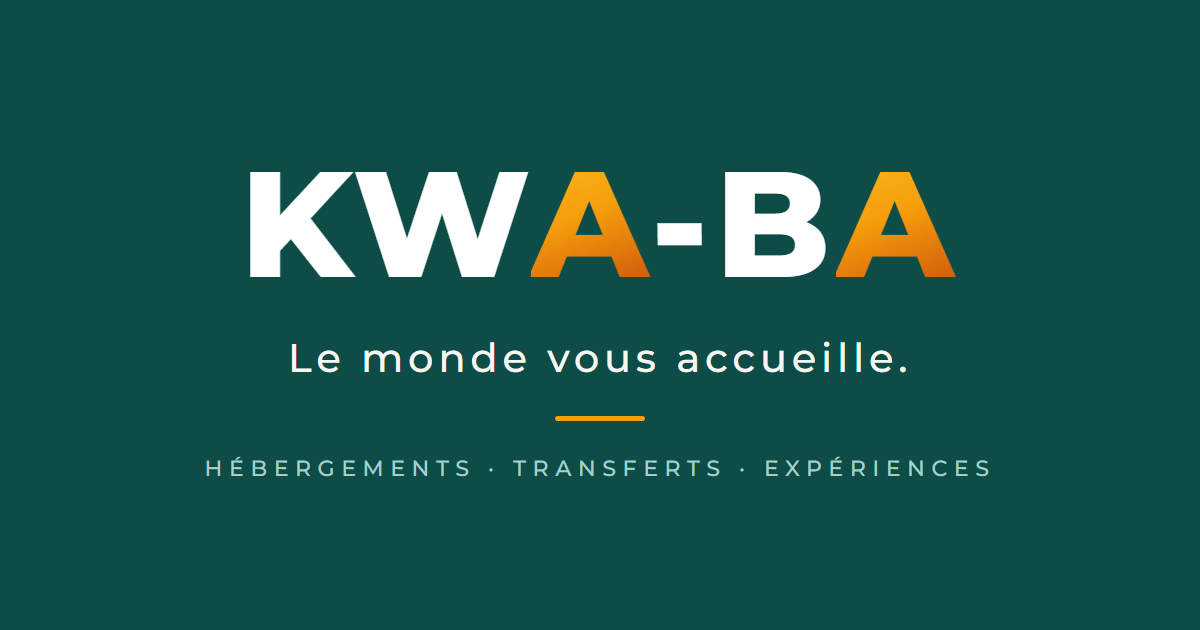
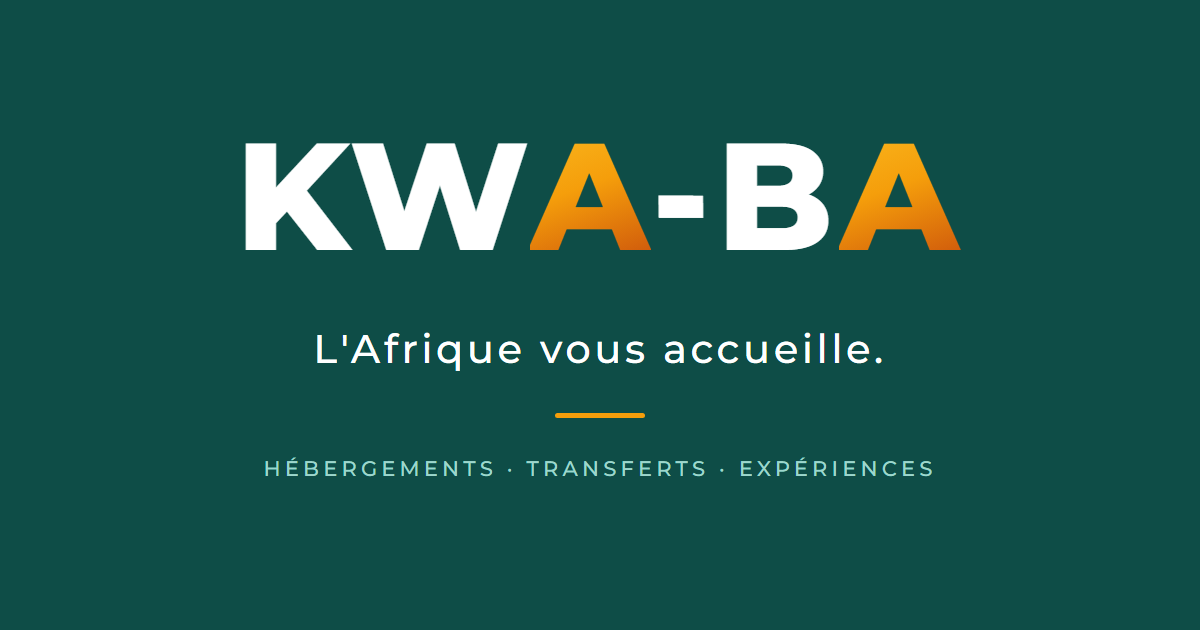
feat(marque): nouveau slogan « L'Afrique vous accueille. »
- Site : titre des pages, slogan (FR) et « Africa welcomes you. » (EN).
- Emails : en-tête « L'Afrique vous accueille ».
- Aperçu des liens partagés (Open Graph) régénéré avec le slogan.
- README et charte de marque.

diff --git a/client/tailwind.config.ts b/client/tailwind.config.ts
@@ -10,7 +10,7 @@ const config: Config = {
       colors: {
         background: "var(--background)",
         foreground: "var(--foreground)",
-        // Palette Kwa-Ba (charte « Le monde vous accueille »)
+        // Palette Kwa-Ba (charte « L'Afrique vous accueille »)
         primary: {
           // Vert profond « Confiance » : boutons, liens, en-têtes (9,8:1 avec du blanc)
           DEFAULT: '#0E4D47',

diff --git a/server/apps/notifications/infrastructure/email/html.py b/server/apps/notifications/infrastructure/email/html.py
@@ -116,7 +116,7 @@ def page_html(texte: str, sujet: str) -> str:
   <table role="presentation" width="100%" cellpadding="0" cellspacing="0" style="max-width:600px;background:#FFFFFF;border-radius:18px;overflow:hidden;border:1px solid #ECE7DD">
     <tr><td align="center" style="padding:26px 24px 18px;border-bottom:1px solid #F0ECE4">
       <img src="cid:{CID_LOGO}" width="200" height="50" alt="KWA-BA" style="display:block;border:0;outline:none;font-family:Arial,sans-serif;font-size:26px;font-weight:800;color:{VERT}">
-      <div style="margin-top:8px;font-size:12px;letter-spacing:3px;text-transform:uppercase;color:{GRIS}">Le monde vous accueille</div>
+      <div style="margin-top:8px;font-size:12px;letter-spacing:3px;text-transform:uppercase;color:{GRIS}">L’Afrique vous accueille</div>
     </td></tr>
     <tr><td style="height:4px;background:{ORANGE};background-image:linear-gradient(90deg,{VERT},{ORANGE},{ORANGE_FONCE})"></td></tr>
     <tr><td style="padding:30px 32px 26px">

diff --git a/README.md b/README.md
@@ -1,6 +1,6 @@
 # Kwa-Ba
 
-**Le monde vous accueille.**
+**L'Afrique vous accueille.**
 
 Plateforme de reservation d'hebergements en Afrique avec support des paiements Mobile Money.
 

diff --git a/client/public/brand/README.md b/client/public/brand/README.md
@@ -1,6 +1,6 @@
 # Identité visuelle Kwa-Ba
 
-« Le monde vous accueille. »
+« L'Afrique vous accueille. »
 
 ## Couleurs
 | Couleur | Code | Usage |
